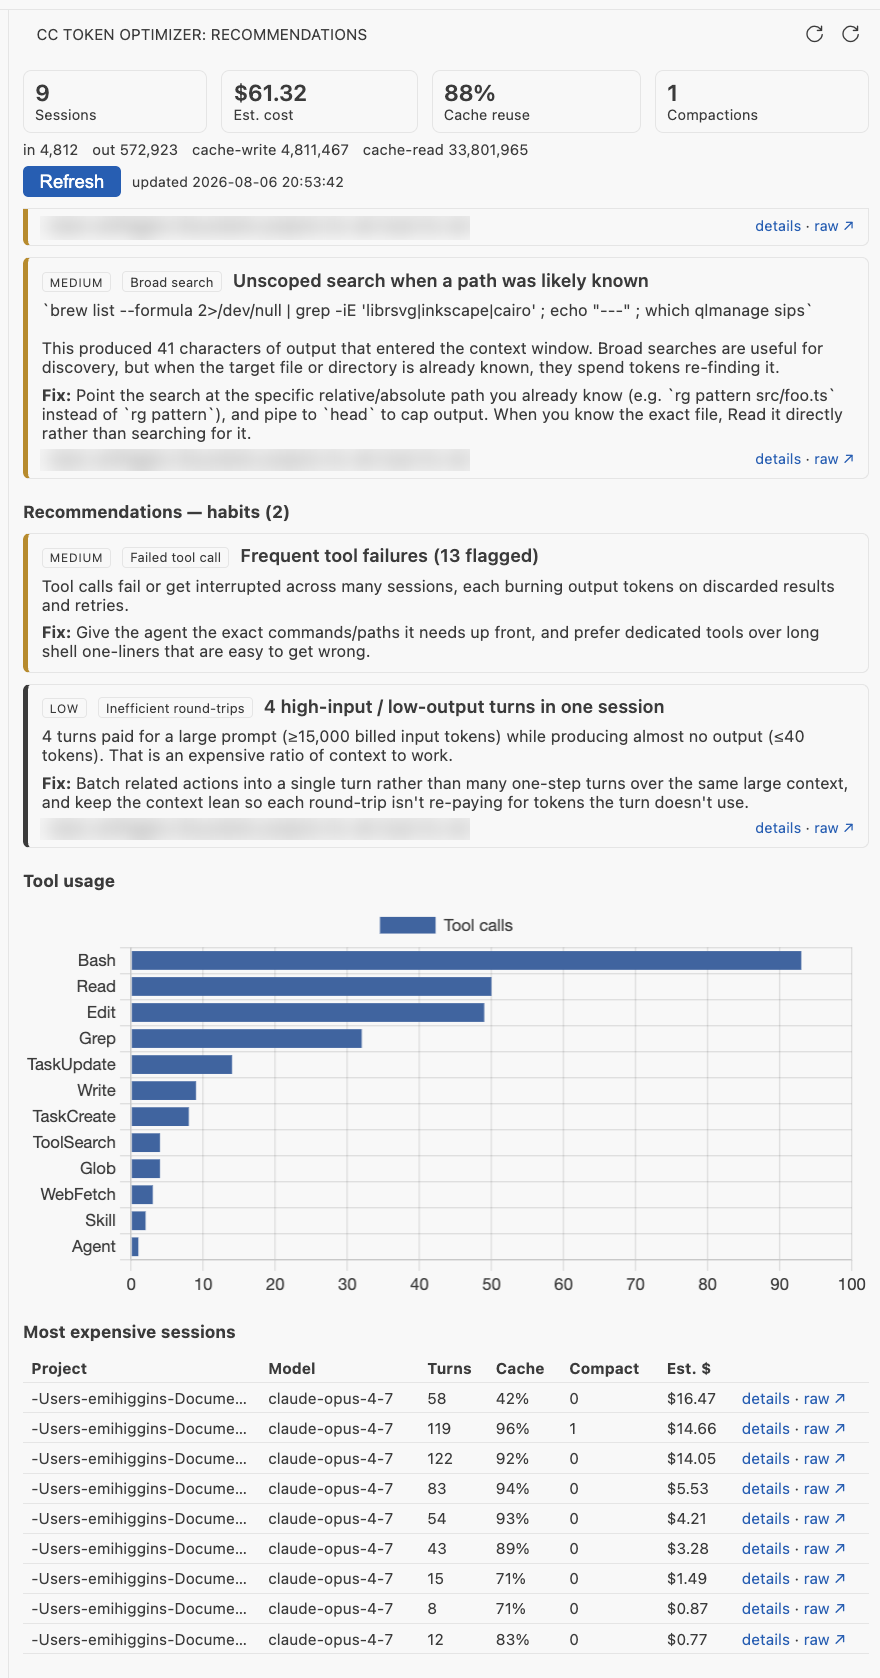
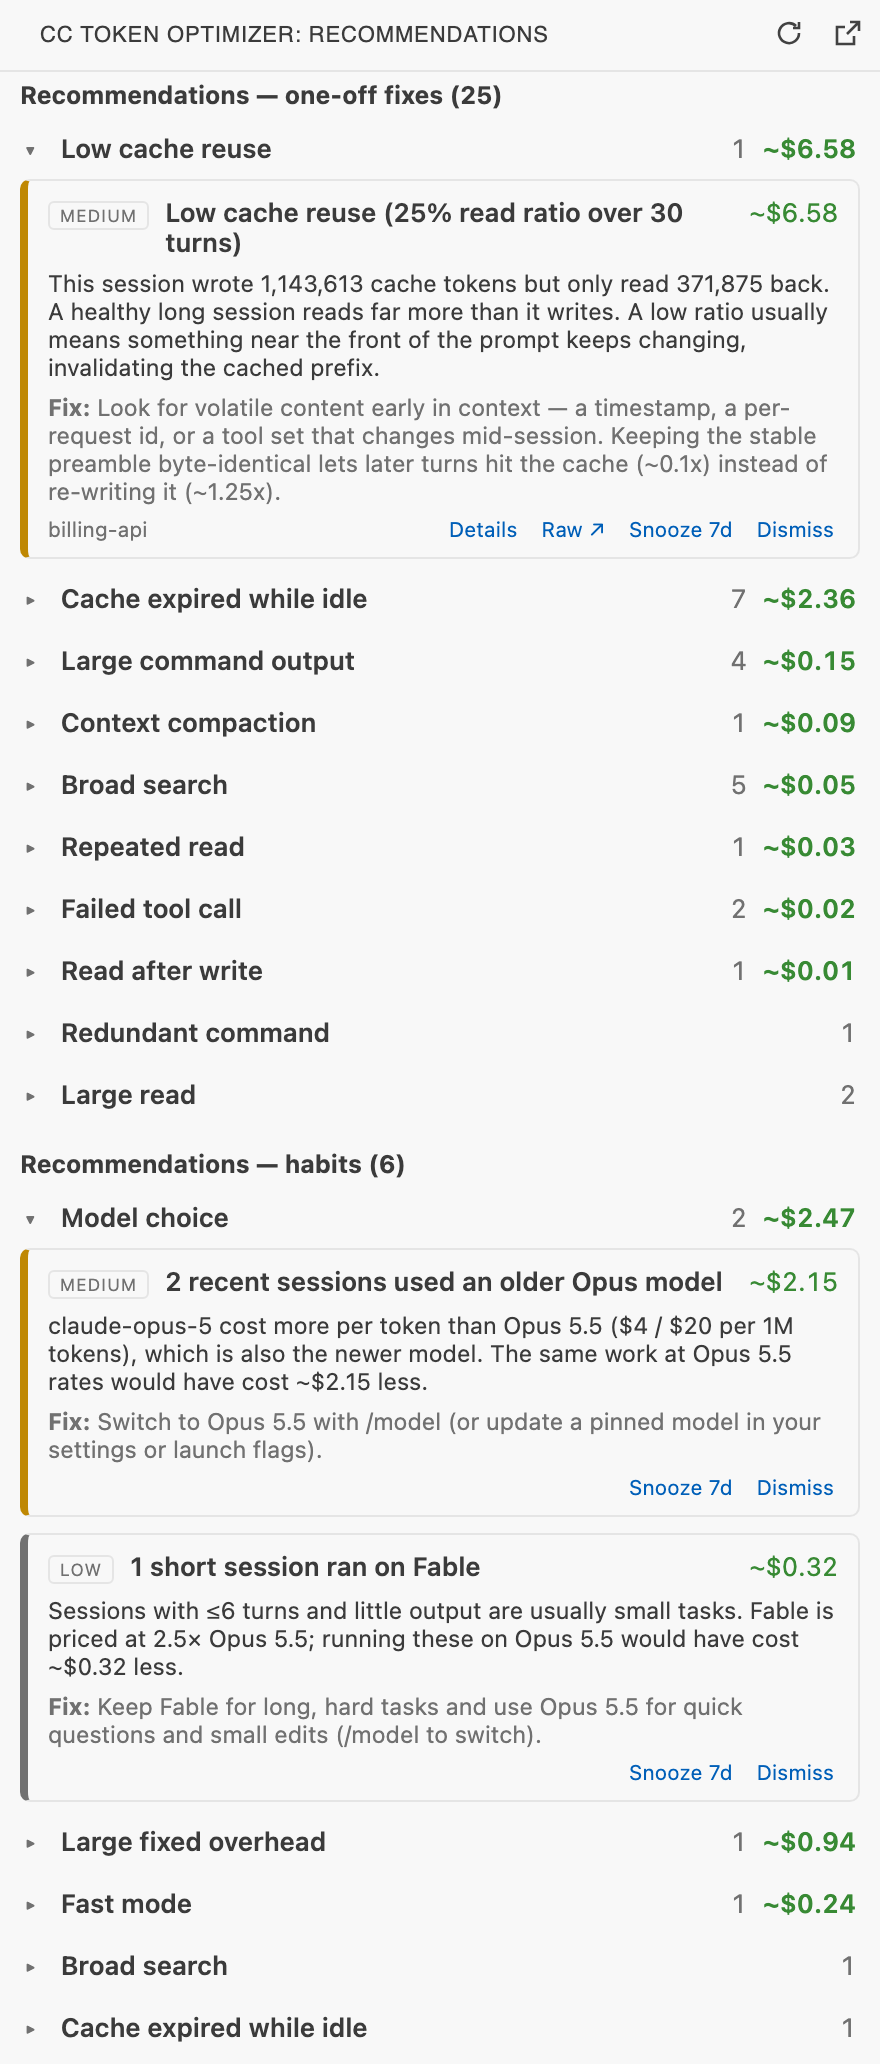
docs: refresh README screenshots for 0.2.0 using demo data
Retake the dashboard screenshots against a synthetic demo Claude home so
they show the 0.2.0 UI without any real project names. Add sessions and
drill-down shots.

Capturing at true sidebar width showed the sessions table overflowing,
so the session name now opens the drill-down (which links to the raw
transcript) instead of a separate actions column.

diff --git a/src/webview/dashboard.ts b/src/webview/dashboard.ts
@@ -249,7 +249,7 @@ function render(payload: DashboardPayload): void {
     <section>
       <h3>Most expensive sessions</h3>
       <table class="sessions"><thead><tr>
-        <th scope="col">Session</th><th scope="col">Model</th><th scope="col">Turns</th><th scope="col">Cache</th><th scope="col">Compact</th><th scope="col">Est. $</th><th scope="col"><span class="sr-only">Actions</span></th>
+        <th scope="col">Session</th><th scope="col">Model</th><th scope="col">Turns</th><th scope="col">Cache</th><th scope="col" title="Compactions">Cmp</th><th scope="col">Est. $</th>
       </tr></thead><tbody>
         ${a.sessions.slice(0, 15).map((s) => sessionRow(s, payload)).join("")}
       </tbody></table>
@@ -416,23 +416,23 @@ function findingCard(f: Finding, payload: DashboardPayload): string {
 
 function sessionRow(s: SessionSummary, payload: DashboardPayload): string {
   const file = payload.sessionFiles[s.sessionId];
-  const actions = file
-    ? `<button class="link" data-action="detail" data-file="${esc(file)}">Details</button>` +
-      `<button class="link" data-action="raw" data-file="${esc(file)}">Raw ↗</button>`
-    : "";
   const project = projectLabel(payload, s.project);
   const name = s.title ?? project;
+  // The name opens the drill-down (which links to the raw transcript), so the
+  // table needs no separate actions column in a narrow sidebar.
+  const label = `${s.parentSessionId ? `<span class="badge">subagent</span> ` : ""}${esc(name)}`;
   return `<tr>
     <td class="proj" title="${esc(name)}">
-      <div class="sname">${s.parentSessionId ? `<span class="badge">subagent</span> ` : ""}${esc(name)}</div>
+      <div class="sname">${
+        file ? `<button class="link sname-link" data-action="detail" data-file="${esc(file)}">${label}</button>` : label
+      }</div>
       ${s.title ? `<div class="ssub">${esc(project)}</div>` : ""}
     </td>
-    <td title="${esc(s.model ?? "")}">${esc(modelLabel(s.model))}</td>
-    <td>${fmt(s.turns)}</td>
-    <td>${pct(s.cacheReadRatio)}</td>
-    <td>${fmt(s.compactions)}</td>
-    <td>${money(s.costUSD)}</td>
-    <td class="actions">${actions}</td>
+    <td class="num" title="${esc(s.model ?? "")}">${esc(modelLabel(s.model))}</td>
+    <td class="num">${fmt(s.turns)}</td>
+    <td class="num">${pct(s.cacheReadRatio)}</td>
+    <td class="num">${fmt(s.compactions)}</td>
+    <td class="num">${money(s.costUSD)}</td>
   </tr>`;
 }
 

diff --git a/media/dashboard.css b/media/dashboard.css
@@ -372,7 +372,7 @@ table.sessions td {
   border-bottom: 1px solid var(--vscode-panel-border);
 }
 table.sessions td.proj {
-  max-width: 160px;
+  max-width: 0; /* let the name column absorb the remaining width and ellipsize */
   overflow: hidden;
   text-overflow: ellipsis;
   white-space: nowrap;
@@ -386,9 +386,19 @@ table.sessions .ssub {
   font-size: 0.85em;
   color: var(--vscode-descriptionForeground);
 }
-table.sessions td.actions button {
-  display: block;
+table.sessions th,
+table.sessions td.num {
   white-space: nowrap;
+}
+table.sessions td.proj {
+  width: 100%;
+}
+button.sname-link {
+  max-width: 100%;
+  overflow: hidden;
+  text-overflow: ellipsis;
+  white-space: nowrap;
+  text-align: left;
 }
 canvas {
   max-width: 100%;

diff --git a/README.md b/README.md
@@ -8,13 +8,23 @@ Everything runs locally — it only reads the JSONL transcripts Claude Code alre
 
 ## Screenshots
 
-**Overview — potential savings, common mistakes, and efficiency over time:**
+*Screenshots use synthetic demo data.*
+
+**Overview — filters, regression alerts, potential savings, and efficiency over time:**
 
 ![Dashboard overview](media/screenshots/dashboard-overview.png)
 
-**Per-session recommendations, tool usage, and most expensive sessions:**
+**Recommendations grouped by category, with snooze and dismiss:**
 
-![Recommendations and tool usage](media/screenshots/recommendations.png)
+![Grouped recommendations](media/screenshots/recommendations.png)
+
+**Tool usage and the most expensive sessions, by title:**
+
+![Tool usage and sessions](media/screenshots/sessions.png)
+
+**Per-session drill-down:**
+
+![Session drill-down](media/screenshots/session-detail.png)
 
 ## What it detects
 
@@ -60,7 +70,7 @@ To avoid false alarms, regressions only fire when **both** comparison windows ha
 
 ### Per-session drill-down
 
-Click **Details** on any row in the *most expensive sessions* table (or on any finding) to open a drill-down for that one session — parsed on demand, so the main payload stays small. It shows a **tokens-per-turn** stacked bar chart (input / output / cache-read / cache-write) with compaction points marked, a **compaction-events** list, and the **most expensive tool calls** ranked by token footprint with their exact target (the command, or the file path) and error/interrupt badges. This is the "where did this $175 session actually go?" view — it typically points straight at a handful of oversized reads or searches.
+Click a session's name in the *most expensive sessions* table (or **Details** on any finding) to open a drill-down for that one session — parsed on demand, so the main payload stays small. It shows a **tokens-per-turn** stacked bar chart (input / output / cache-read / cache-write) with compaction points marked, a **compaction-events** list, and the **most expensive tool calls** ranked by token footprint with their exact target (the command, or the file path) and error/interrupt badges. This is the "where did this $175 session actually go?" view — it typically points straight at a handful of oversized reads or searches.
 
 > The numbers are honest: on an already-efficient setup (high cache-read ratio), recoverable waste can legitimately be a small fraction of spend even when the behavioral patterns (broad searches, repeated reads) are worth changing.
 

diff --git a/CHANGELOG.md b/CHANGELOG.md
@@ -33,6 +33,7 @@ Dashboard.
 - **Filters:** range (today / 7 / 30 days / all) and project, defaulting to the current workspace's project.
 - **Grouped findings** by category, collapsible, with *Show more*, plus snooze (7 days) and dismiss with restore-all.
 - **Readable names:** project folder names, session titles and short model names.
+- **Sessions table fits the sidebar:** click a session's name to open its drill-down, which links to the raw transcript.
 - **Open in editor** as a full-width tab.
 - **Theme-aware charts**, keyboard-accessible buttons, and a less spammy error popup with an output-channel log.
 - **Live updates** keep scroll position and an open drill-down. Hidden views catch up when shown, and only changed transcripts are re-parsed.
